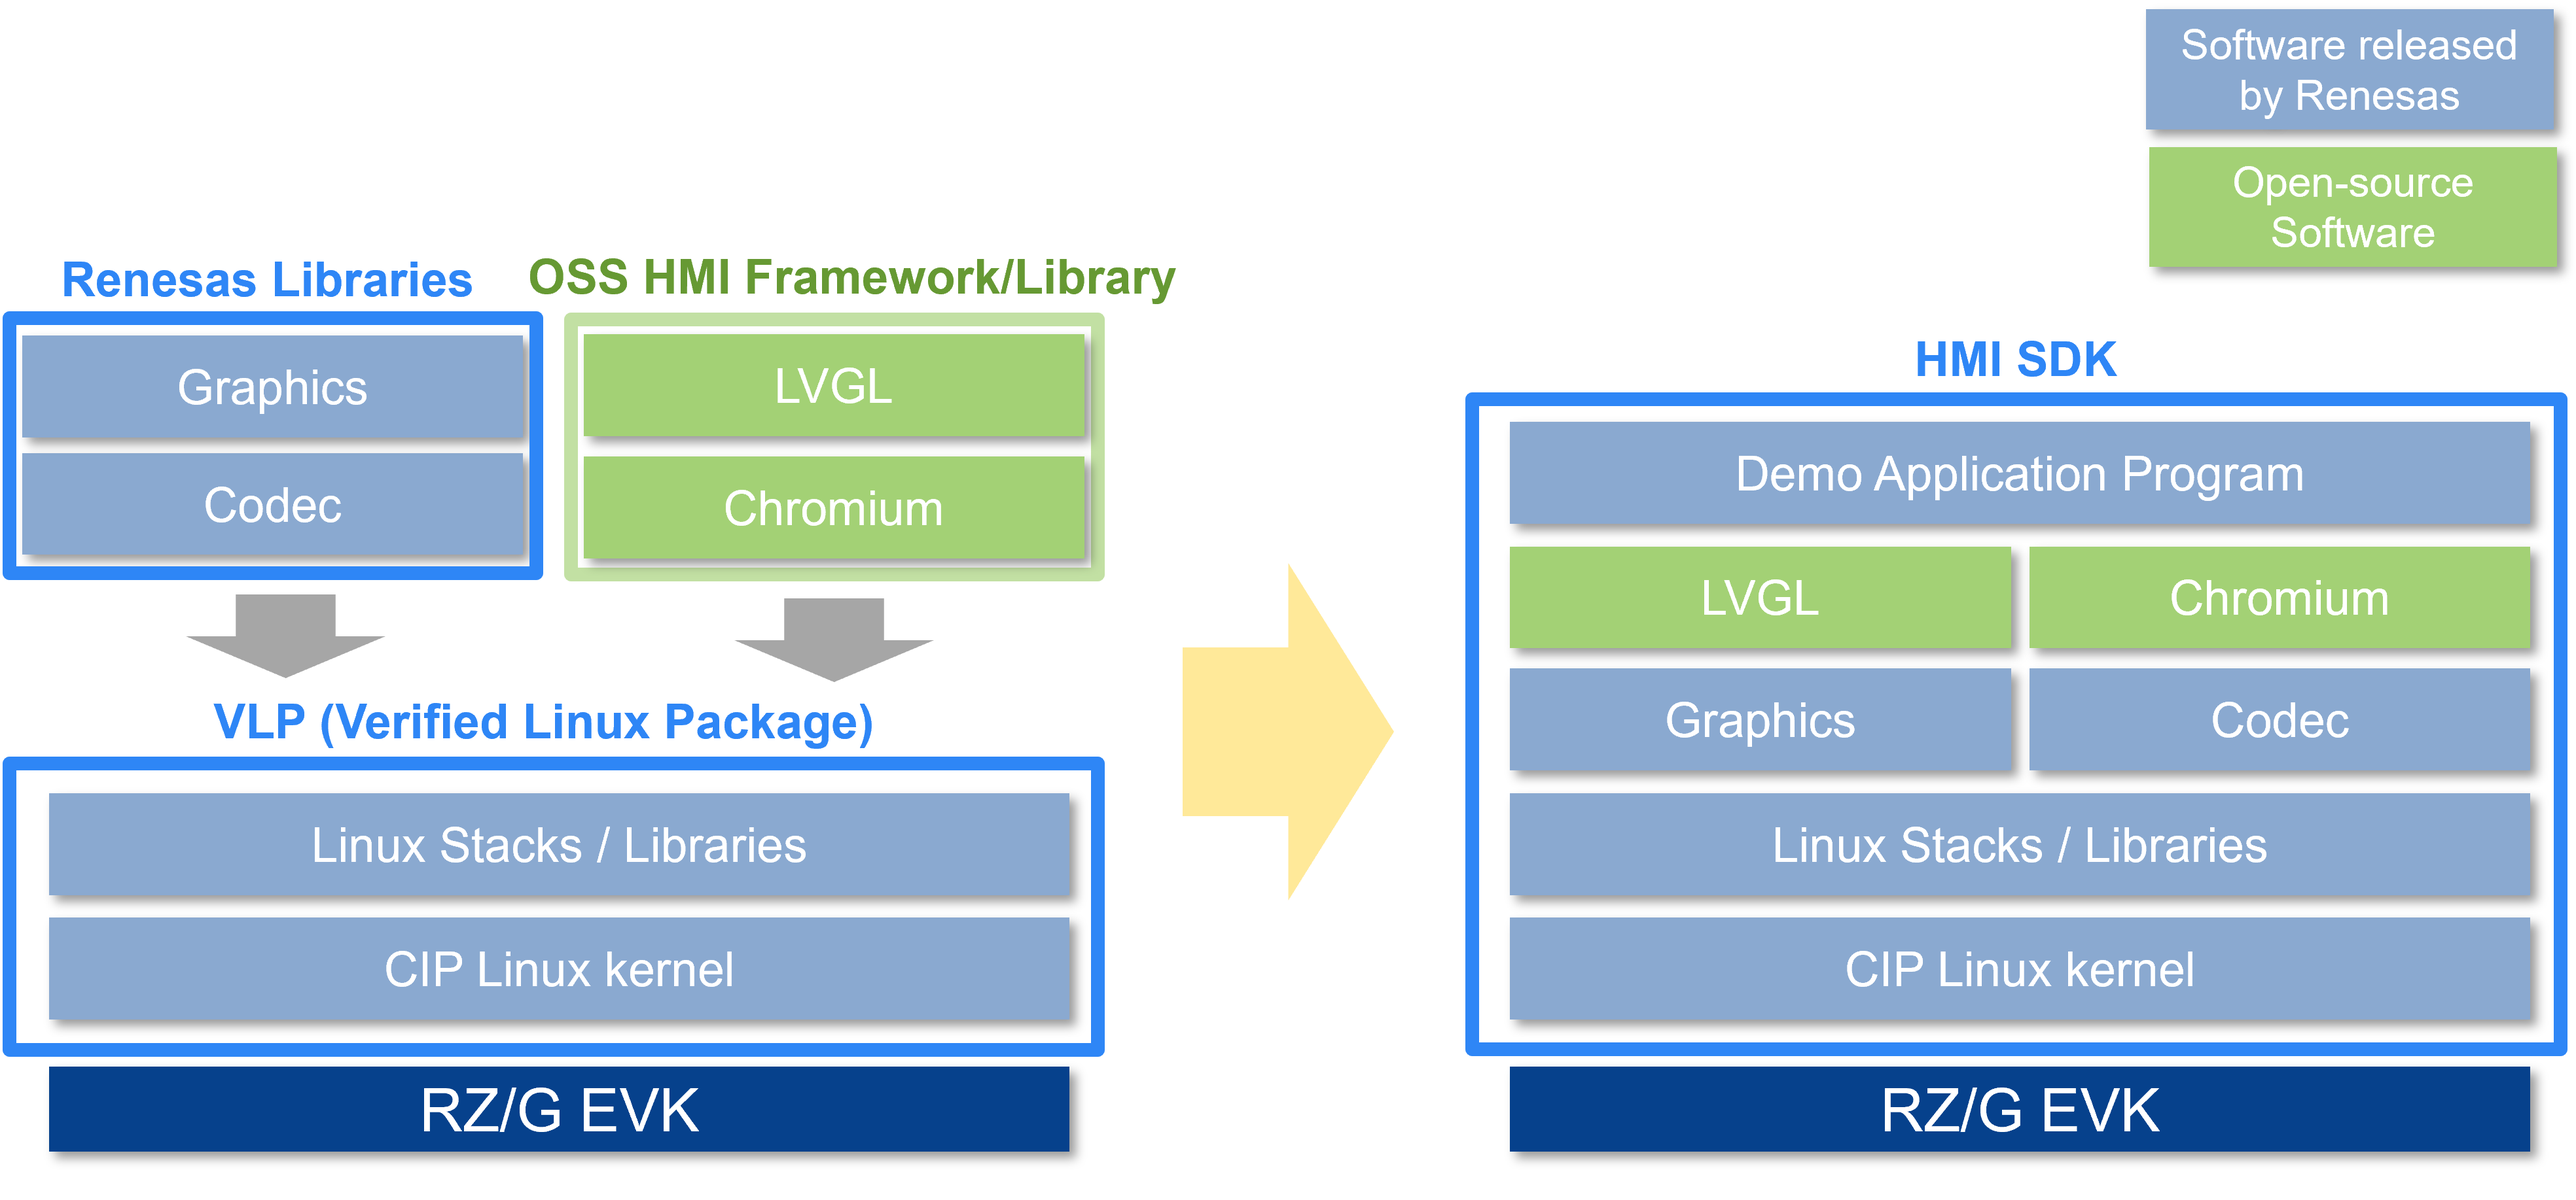
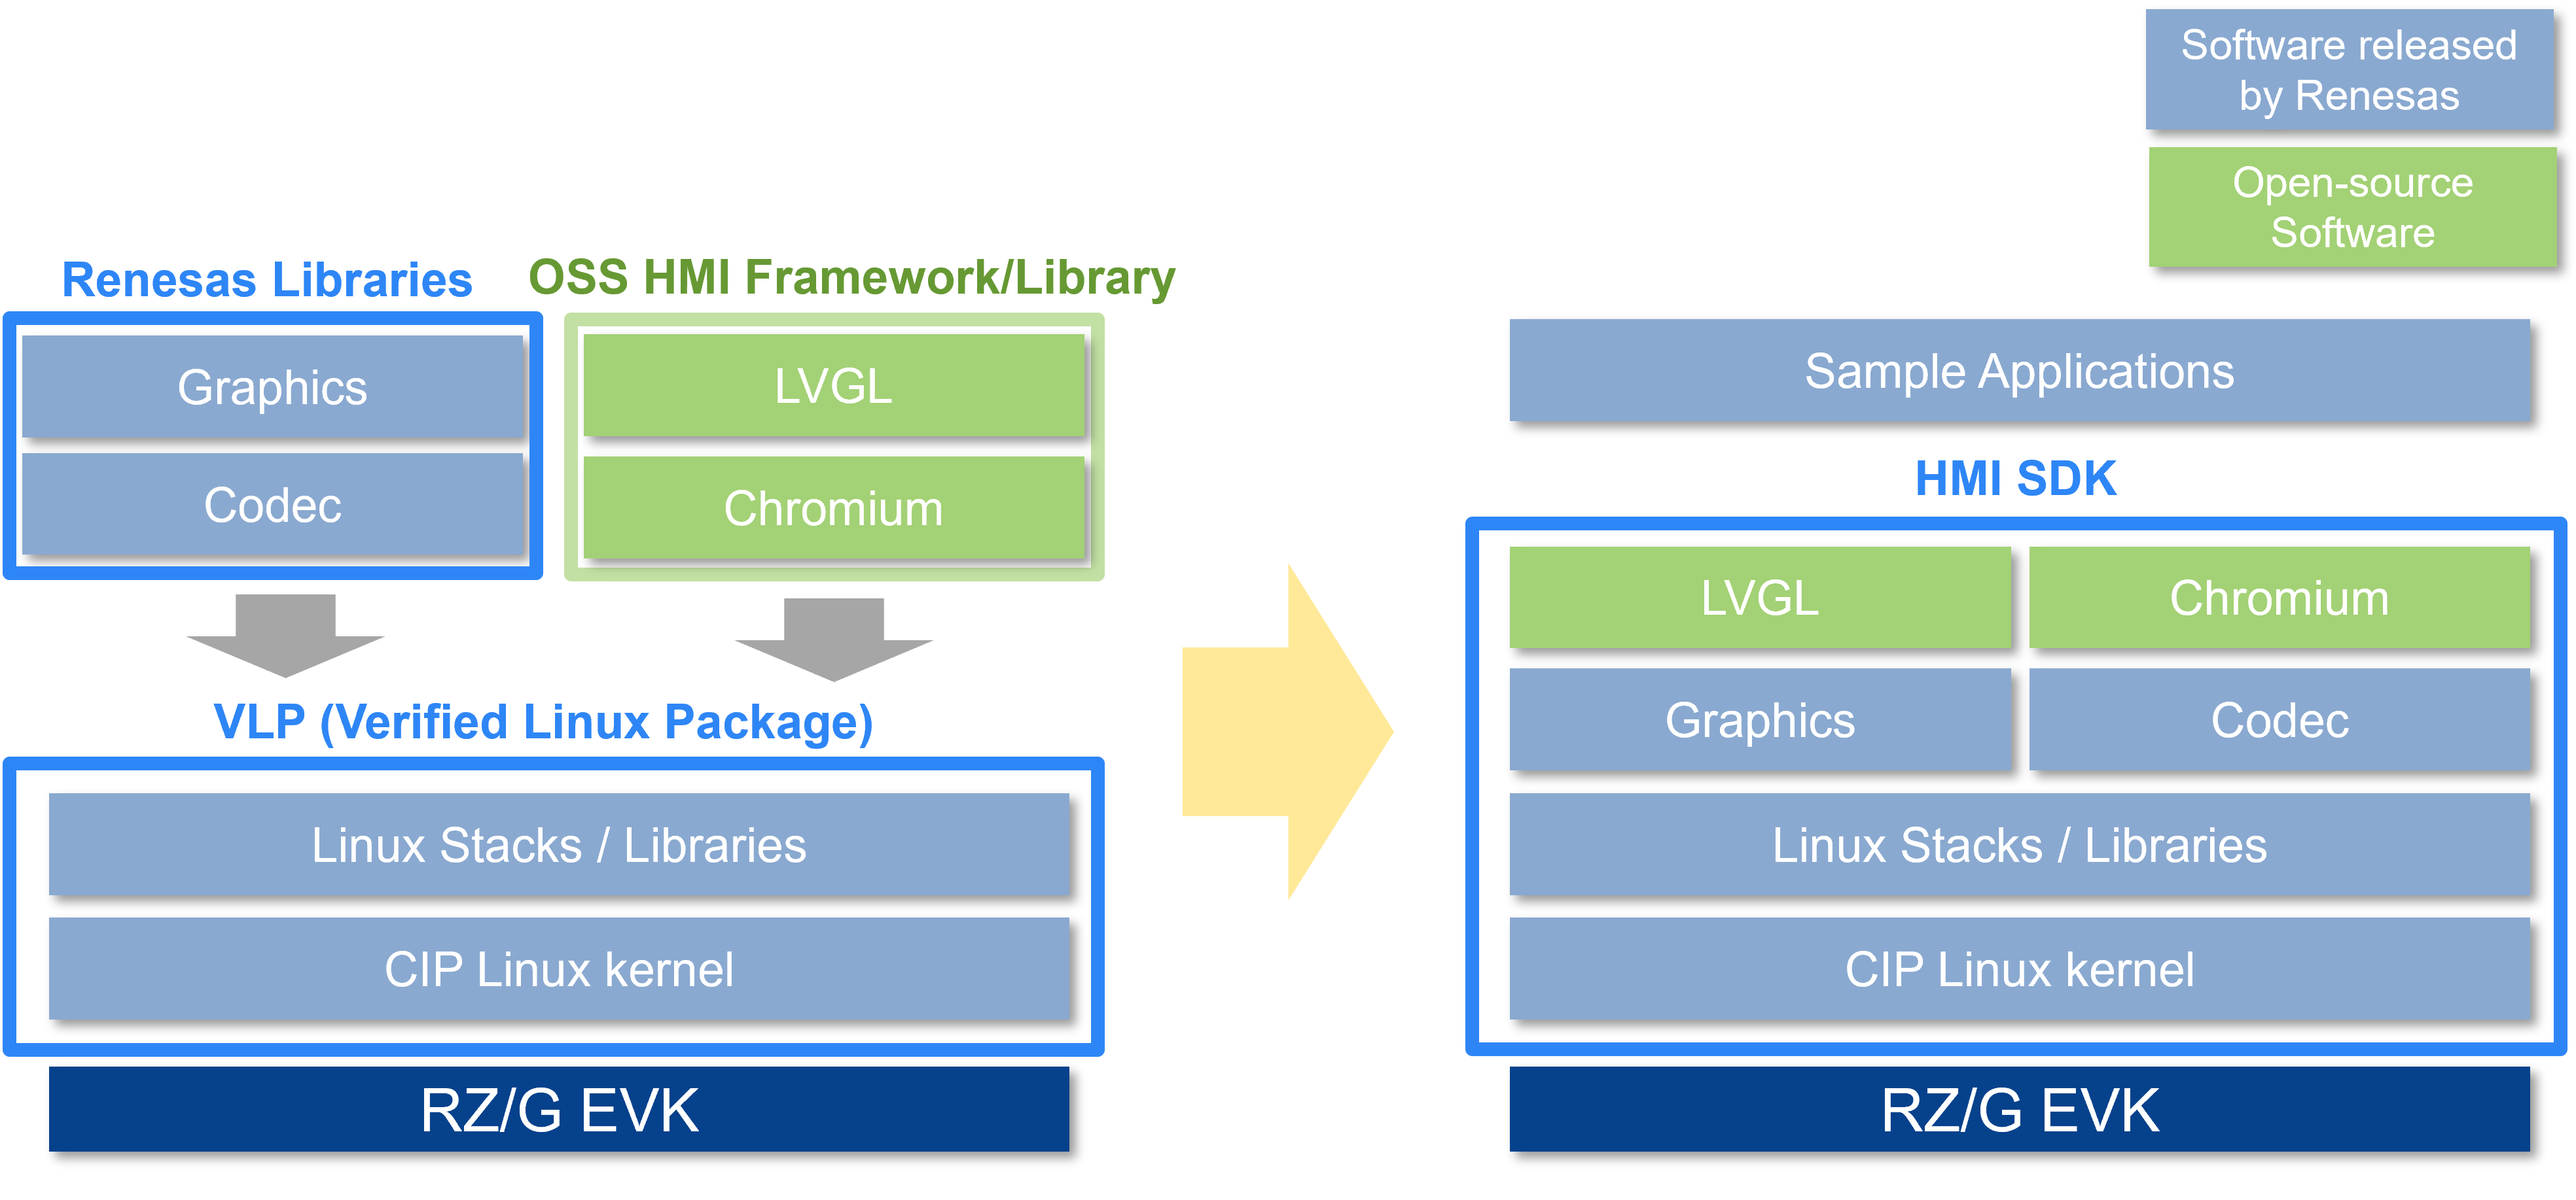
Docs: Update RZG HMI SDK website
- Update information at the top of homepage
- Remove unnecessary download links
- Update an HMI SDK figure in FAQ
- Add information about HW codec on Chromium to FAQ
- Add a link to the homepage to the menu

Changed region(s): [[0.5625, 0.2485, 1.0, 0.4659]]

diff --git a/docs/docs/hmi_applications/_components/__front_matter.md b/docs/docs/hmi_applications/_components/__front_matter.md
@@ -7,11 +7,11 @@ They are available both as source code and as prebuilt binaries, which allow you
 
     | Sample Application Name                                                        | Description                                                                                                                             | Pre-installed <br>in SD Card Image | Source Code URL   |
     | ------------------------------------------------------------------------------ | --------------------------------------------------------------------------------------------------------------------------------------- | ---------------------------------- | ----------------- |
-    | LVGL Sample Program for Image Display<br> `#!bash lvgl_sample_img_disp`        | This program is implemented using [LVGL](https://lvgl.io/){: target=_blank }, and it can display image files in bmp/jpg/png/gif format. | No                                 | [Link to GitHub](https://github.com/renesas-rz/rzg_hmi_sdk/tree/main/sample_app/lvgl/lvgl_sample_img_disp){: target=_blank } |
-    | LVGL Sample Program for Audio Playback<br> `#!bash lvgl_sample_audio_playback` | This program is implemented using [LVGL](https://lvgl.io/){: target=_blank }, and it can play audio files in mp3/aac/wav format.        | No                                 | [Link to GitHub](https://github.com/renesas-rz/rzg_hmi_sdk/tree/main/sample_app/lvgl/lvgl_sample_audio_playback){: target=_blank } |
-    | LVGL Sample Program for Video Playback<br> `#!bash lvgl_sample_video_playback` | This program is implemented using [LVGL](https://lvgl.io/){: target=_blank }, and it can play a movie file in mp4 format.               | No                                 | [Link to GitHub](https://github.com/renesas-rz/rzg_hmi_sdk/tree/main/sample_app/lvgl/lvgl_sample_video_playback){: target=_blank } |
-    | RZ Linux Benchmark Demo<br> `#!bash rz_benchmark_demo`                         | RZ Linux Benchmark Demo is implemented using [LVGL](https://lvgl.io/){: target=_blank }, and some benchmarks can be run on the demo.    | Yes                                | [Link to GitHub](https://github.com/renesas-rz/rz_benchmark_demo){: target=_blank } |
-    | Chromium Home Panel Demo                                                       | Chromium Home Panel Demo is an HTML5 Single Page Web Application, and it is a demo for home panel.                                      | Yes                                | [Link to GitHub](https://github.com/renesas-rz/rzg_hmi_sdk/tree/main/sample_app/chromium/home_panel_demo){: target=_blank } |
+    | **LVGL** Sample Program for **Image Display**<br> `#!bash lvgl_sample_img_disp`        | This program is implemented using [LVGL](https://lvgl.io/){: target=_blank }, and it can display image files in bmp/jpg/png/gif format. | No                                 | [Link to GitHub](https://github.com/renesas-rz/rzg_hmi_sdk/tree/main/sample_app/lvgl/lvgl_sample_img_disp){: target=_blank } |
+    | **LVGL** Sample Program for **Audio Playback**<br> `#!bash lvgl_sample_audio_playback` | This program is implemented using [LVGL](https://lvgl.io/){: target=_blank }, and it can play audio files in mp3/aac/wav format.        | No                                 | [Link to GitHub](https://github.com/renesas-rz/rzg_hmi_sdk/tree/main/sample_app/lvgl/lvgl_sample_audio_playback){: target=_blank } |
+    | **LVGL** Sample Program for **Video Playback**<br> `#!bash lvgl_sample_video_playback` | This program is implemented using [LVGL](https://lvgl.io/){: target=_blank }, and it can play a movie file in mp4 format.               | No                                 | [Link to GitHub](https://github.com/renesas-rz/rzg_hmi_sdk/tree/main/sample_app/lvgl/lvgl_sample_video_playback){: target=_blank } |
+    | **LVGL** RZ Linux **Benchmark** Demo<br> `#!bash rz_benchmark_demo`                         | RZ Linux Benchmark Demo is implemented using [LVGL](https://lvgl.io/){: target=_blank }, and some benchmarks can be run on the demo.    | Yes                                | [Link to GitHub](https://github.com/renesas-rz/rz_benchmark_demo){: target=_blank } |
+    | **Chromium Home Panel** Demo                                                       | Chromium Home Panel Demo is an HTML5 Single Page Web Application, and it is a demo for home panel.                                      | Yes                                | [Link to GitHub](https://github.com/renesas-rz/rzg_hmi_sdk/tree/main/sample_app/chromium/home_panel_demo){: target=_blank } |
 
 
 The pre-installed applications can be run from a launcher program that starts automatically when the HMI SDK Linux launches.

diff --git a/docs/docs/index.md b/docs/docs/index.md
@@ -1,15 +1,29 @@
 # HMI SDK on RZ/G series
 
-The best solution for starting your HMI applications.
+The Renesas RZ/G HMI SDK is an all-in-one package that includes the necessary software for developing a Linux HMI application.
 {: .subtitle .center }
 
-HMI SDK are quick and easy solutions for starting HMI.
+The HMI SDK provides a Linux HMI application development environment for the RZ/G Evaluation Board Kit.
 {: .sub-subtitle .center }
+
+* Easy-to-Use
+
+    The HMI SDK provides a quick and easy development environment, lowering the barrier to entry for beginners to Linux to use a Linux MPU.
+
+* Free of Charge
+
+    All software in the HMI SDK is available for free.
+
+* Ready-to-Use
+
+    The HMI SDK includes GUI frameworks and libraries that are appropriate for HMI.
 
 ![](assets/images/banner-01.svg){ width=27.2% .zoom #banner-left }
 ![](assets/images/banner-02.svg){ width=35.75% .zoom }
 ![](assets/images/banner-03.svg){ width=32.2% .zoom #banner-right }
 {: .center }
+
+For more information, see [Overview](overview/index.md).
 
 {! history/_components/__front_matter.md !}
 

diff --git a/docs/docs/how_to_build_hmi_sdk/_components/step_01.md b/docs/docs/how_to_build_hmi_sdk/_components/step_01.md
@@ -2,6 +2,8 @@
 
 Download HMI SDK source code from below link.
 
-[:octicons-download-16: Get HMI SDK](https://www.renesas.com/document/sws/rzg-hmi-software-development-kit-version-2300){ .md-button .btn-round target=_blank }
-
 [:material-file-code: Get HMI SDK source code](https://www.renesas.com/document/sws/rzg-hmi-sdk-version-2300-source-code){ .md-button .btn-round target=_blank }
+
+!!! note
+    <font color="red">The HMI SDK source code package file is quite large. It will take a long time to download it.</font>
+

diff --git a/docs/docs/getting_started/_components/step_03.md b/docs/docs/getting_started/_components/step_03.md
@@ -4,6 +4,4 @@ Please download from [Renesas.com](https://www.renesas.com/){: target=_blank } w
 
 [:octicons-download-16: Get HMI SDK](https://www.renesas.com/document/sws/rzg-hmi-software-development-kit-version-2300){ .md-button .btn-round target=_blank }
 
-[:material-file-code: Get HMI SDK source code](https://www.renesas.com/document/sws/rzg-hmi-sdk-version-2300-source-code){ .md-button .btn-round target=_blank }
-
 Once downloaded, please check the Release Note included inside package.

diff --git a/docs/docs/faq/index.md b/docs/docs/faq/index.md
@@ -39,3 +39,9 @@ The version number of the HMI SDK consists of four numbers.
 
 This rule was effective from December 27, 2024.
 
+### Q. Does the Chromium included in HMI SDK v2.3.0.0 support hardware decoding?
+
+The Chromium included in HMI SDK v2.3.0.0 does not support hardware-accelerated video playback using HW codecs. 
+However, support is planned for the next version. 
+Graphics rendering in Chromium already utilizes hardware acceleration. 
+

diff --git a/docs/docs/download/_components/rz-g2l-evk.md b/docs/docs/download/_components/rz-g2l-evk.md
@@ -7,4 +7,3 @@
 
     [:octicons-download-16: Get HMI SDK](https://www.renesas.com/document/sws/rzg-hmi-software-development-kit-version-2300){ .md-button .btn-round target=_blank }
 
-    [:material-file-code: Get HMI SDK source code](https://www.renesas.com/document/sws/rzg-hmi-sdk-version-2300-source-code){ .md-button .btn-round target=_blank }

diff --git a/docs/docs/download/_components/rz-g2lc-evk.md b/docs/docs/download/_components/rz-g2lc-evk.md
@@ -7,4 +7,3 @@
 
     [:octicons-download-16: Get HMI SDK](https://www.renesas.com/document/sws/rzg-hmi-software-development-kit-version-2300){ .md-button .btn-round target=_blank }
 
-    [:material-file-code: Get HMI SDK source code](https://www.renesas.com/document/sws/rzg-hmi-sdk-version-2300-source-code){ .md-button .btn-round target=_blank }

diff --git a/docs/docs/download/_components/rz-g2ul-evk.md b/docs/docs/download/_components/rz-g2ul-evk.md
@@ -7,4 +7,3 @@
 
     [:octicons-download-16: Get HMI SDK](https://www.renesas.com/document/sws/rzg-hmi-software-development-kit-version-2300){ .md-button .btn-round target=_blank }
 
-    [:material-file-code: Get HMI SDK source code](https://www.renesas.com/document/sws/rzg-hmi-sdk-version-2300-source-code){ .md-button .btn-round target=_blank }
